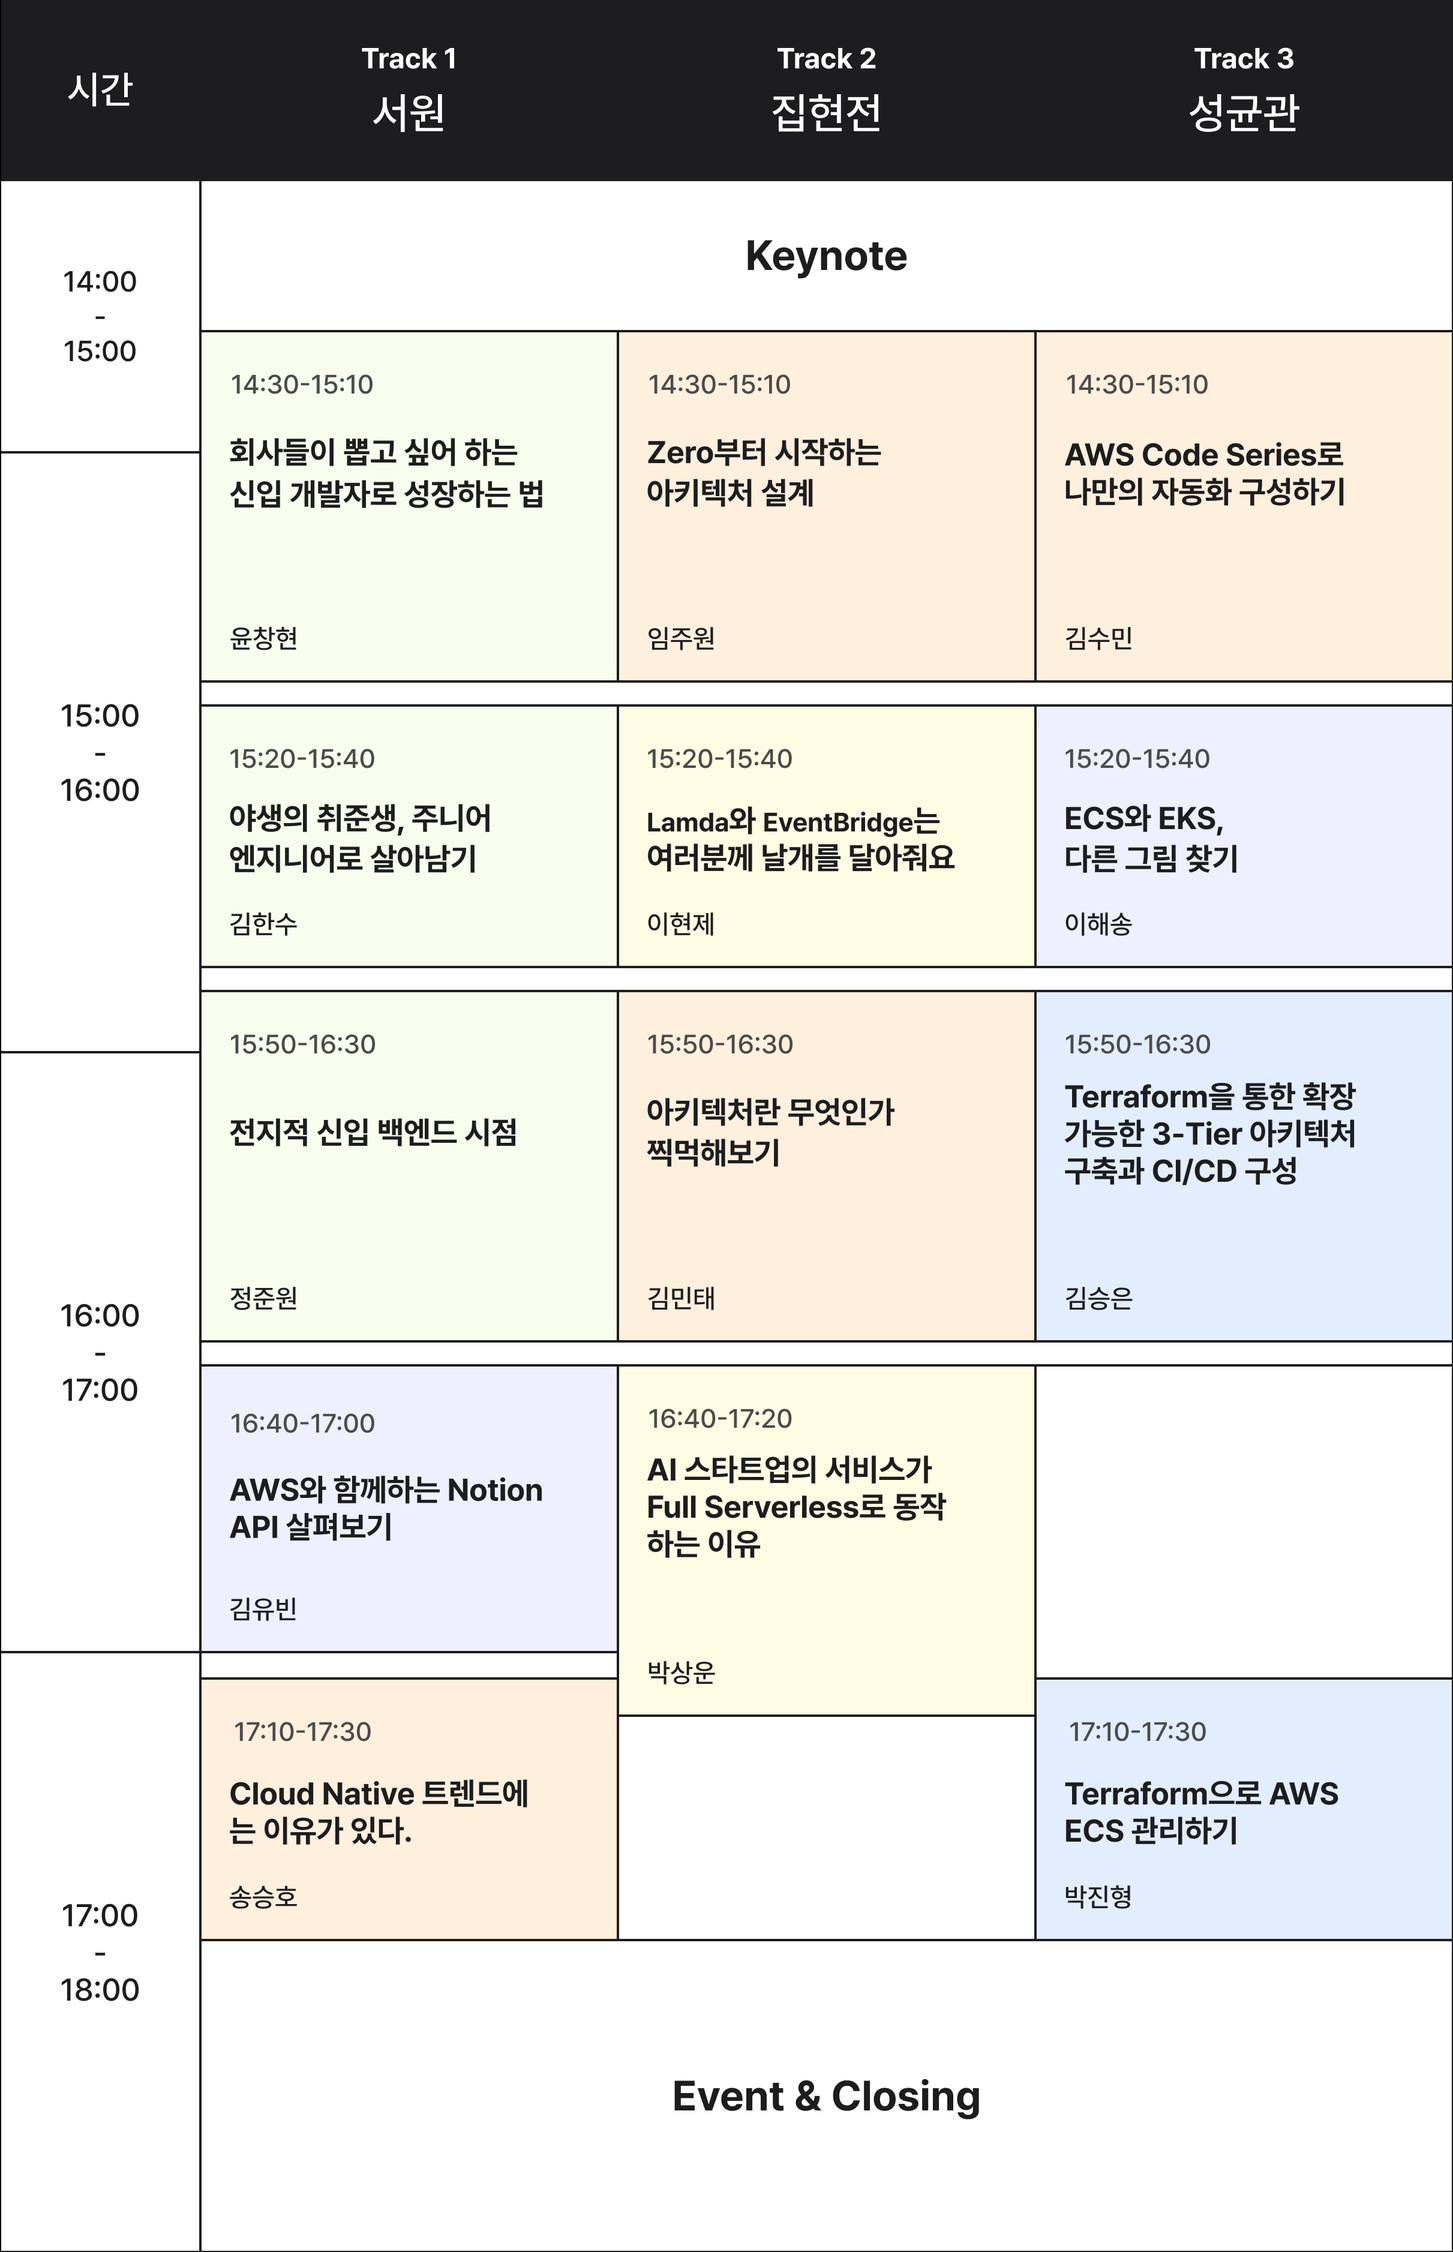
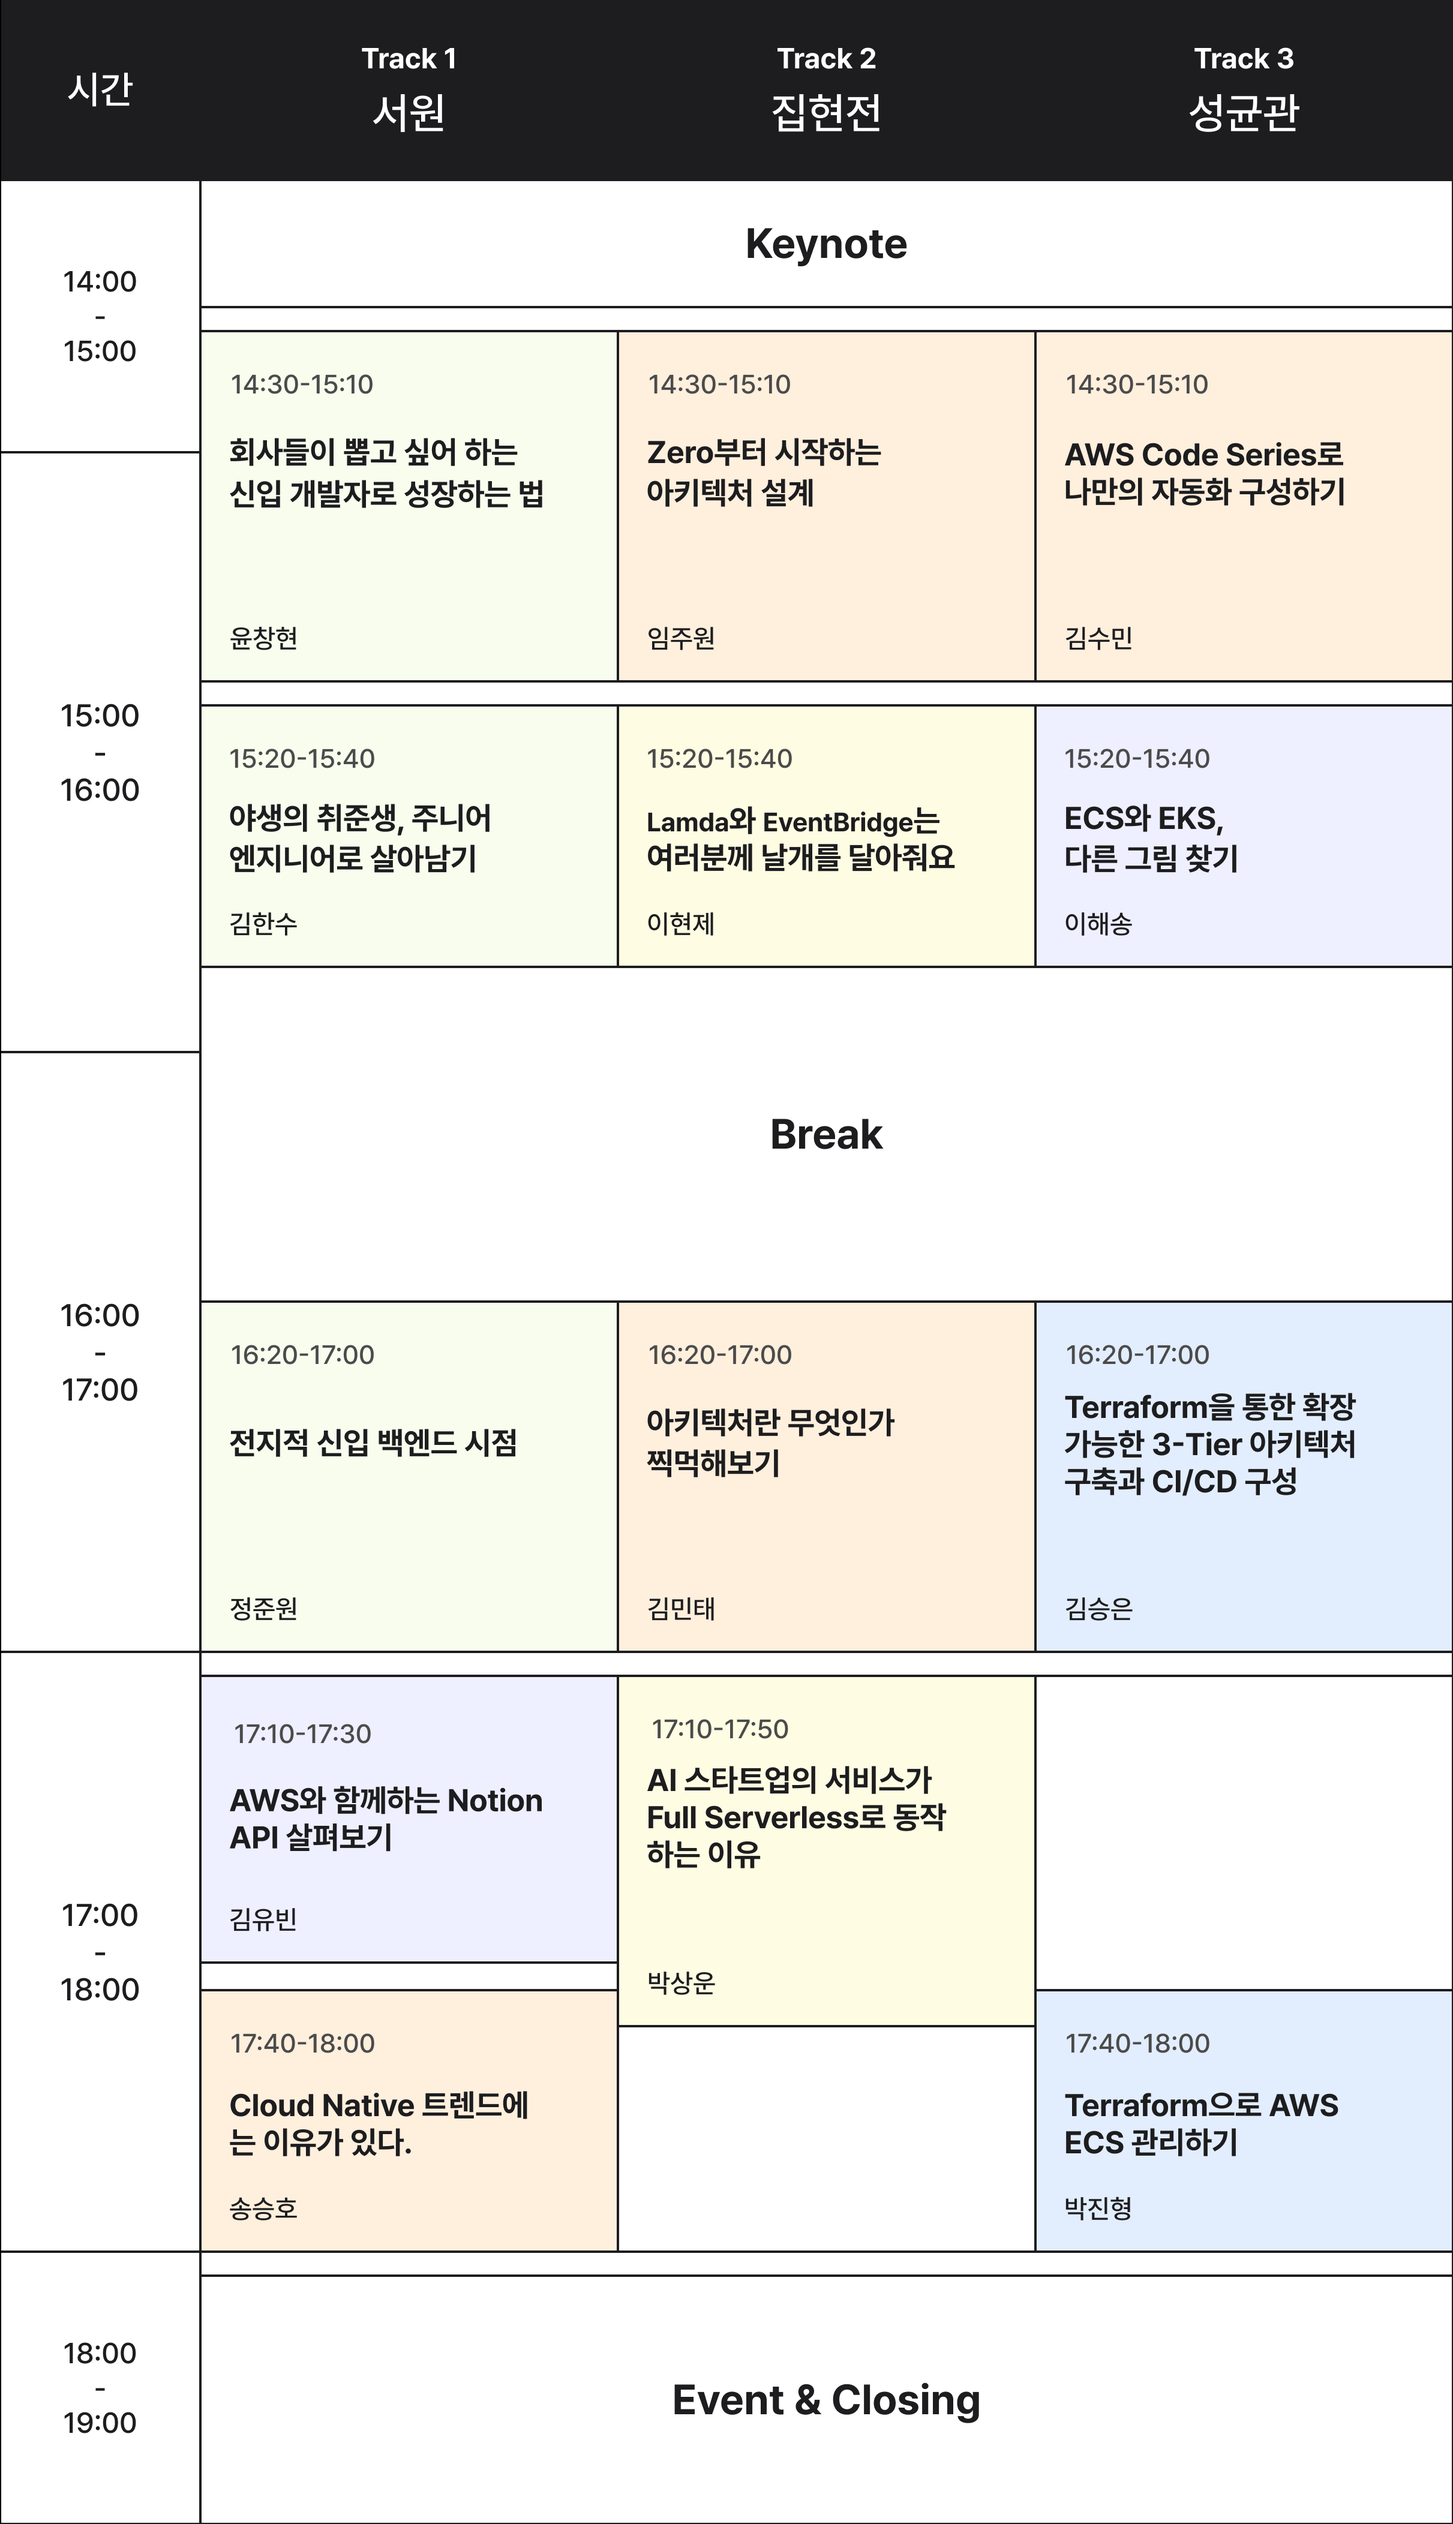
Feat : Update time table

diff --git a/data/program/track1/index.ts b/data/program/track1/index.ts
@@ -22,8 +22,8 @@ export const TRACK_1: Program[] = [
     },
   },
   {
-    startAt: "15:50",
-    endAt: "16:30",
+    startAt: "16:20",
+    endAt: "17:00",
     title: "전지적 신입 백엔드 시점",
     topic: "Career",
     presenter: {
@@ -32,8 +32,8 @@ export const TRACK_1: Program[] = [
     },
   },
   {
-    startAt: "16:40",
-    endAt: "17:00",
+    startAt: "17:10",
+    endAt: "17:30",
     title: "AWS와 함께하는 Notion API 살펴보기",
     topic: "Sponsor",
     presenter: {
@@ -42,8 +42,8 @@ export const TRACK_1: Program[] = [
     },
   },
   {
-    startAt: "17:10",
-    endAt: "17:30",
+    startAt: "17:40",
+    endAt: "18:00",
     title: "Cloud Native. 트랜드에는 이유가 있다.",
     topic: "Architecture",
     presenter: {

diff --git a/data/program/track2/index.ts b/data/program/track2/index.ts
@@ -22,8 +22,8 @@ export const TRACK_2: Program[] = [
     },
   },
   {
-    startAt: "15:50",
-    endAt: "16:30",
+    startAt: "16:20",
+    endAt: "17:00",
     title: "아키텍처란 무엇인가 찍먹해보기",
     topic: "Architecture",
     presenter: {
@@ -32,8 +32,8 @@ export const TRACK_2: Program[] = [
     },
   },
   {
-    startAt: "16:40",
-    endAt: "17:20",
+    startAt: "17:10",
+    endAt: "17:50",
     title: `AI 스타트업의 서비스가 \nFull Serverless로 동작하는 이유`,
     topic: "Serverless",
     presenter: {

diff --git a/data/program/track3/index.ts b/data/program/track3/index.ts
@@ -22,8 +22,8 @@ export const TRACK_3: Program[] = [
     },
   },
   {
-    startAt: "15:50",
-    endAt: "16:30",
+    startAt: "16:20",
+    endAt: "17:00",
     title: `Terraform을 통한 \n확장 가능한 3-Tier 아키텍처 구축과 CI/CD 구성`,
     topic: "DevOps",
     presenter: {
@@ -32,8 +32,8 @@ export const TRACK_3: Program[] = [
     },
   },
   {
-    startAt: "17:10",
-    endAt: "17:30",
+    startAt: "17:40",
+    endAt: "18:00",
     title: `Terraform으로 AWS ECS 관리하기`,
     topic: "DevOps",
     presenter: {
